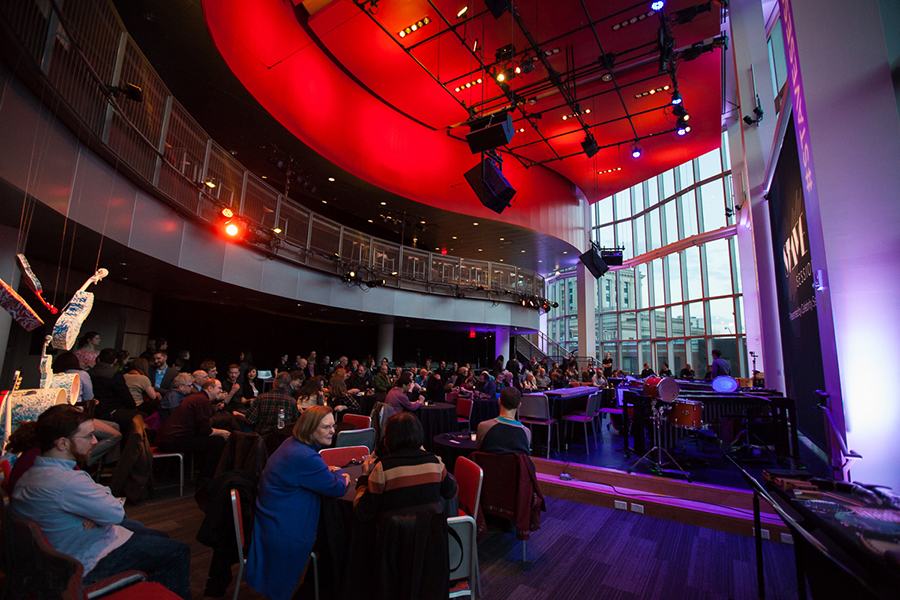
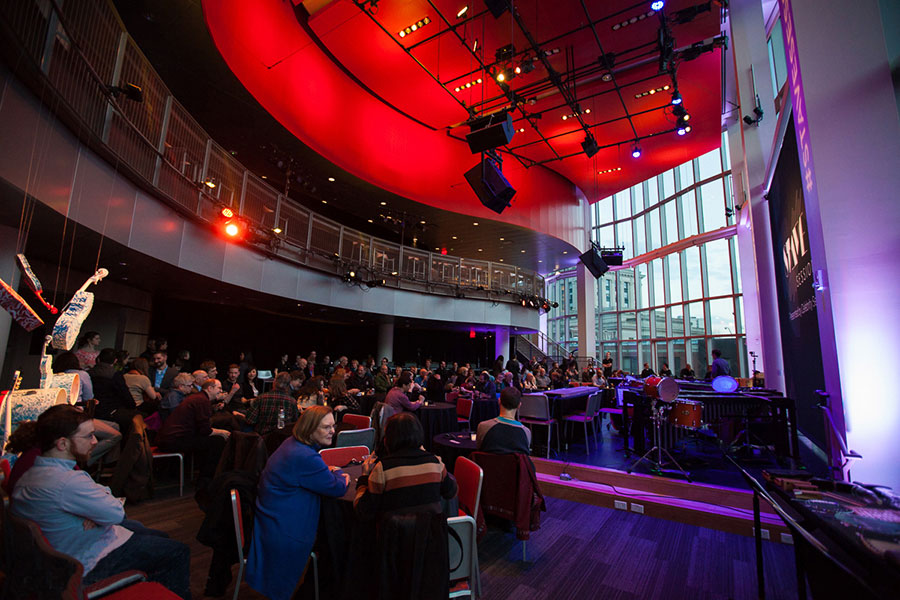
optimizes stave sessions images

diff --git a/portfolio/stave_sessions.html b/portfolio/stave_sessions.html
@@ -91,7 +91,7 @@
 
                 <div class="portfolio-lightbox top_60 row">
                    <figure class="col-md-6 bottom_30">
-                       <img src="../images/portfolio/staveSessions/stave-sessions-logos.png" alt="Stave Sessions Logo Lockup">
+                       <img src="../images/portfolio/staveSessions/stave-sessions-logos.jpg" alt="Stave Sessions Logo Lockup">
                    </figure>
                    <figure class="col-md-6 bottom_30">
                         <img src="../images/portfolio/staveSessions/stave-sessions-poster.jpg" alt="Stave Sessions Interactive Poster">
@@ -103,13 +103,11 @@
                         <img src="../images/portfolio/staveSessions/stave-sessions-painted-cellos.jpg" alt="Stave Sessions Interior Design">
                     </figure>
                     <figure class="col-md-6 bottom_30 lightbox">
-                        <img src="../images/portfolio/staveSessions/stave-sessions-coasters.png" alt="Stave Sessions Event Coasters">
+                        <img src="../images/portfolio/staveSessions/stave-sessions-coasters.jpg" alt="Stave Sessions Event Coasters">
                     </figure>
                     <figure class="col-md-6 bottom_30 lightbox">
                         <img src="../images/portfolio/staveSessions/stave-sessions-ticket.jpg" alt="Stave Sessions Event Ticket">
                     </figure>
-
-
                 </div>
 
                 <div class="col-md-12 portfolio-nav text-center top_90">

diff --git a/index.html b/index.html
@@ -169,7 +169,7 @@
                         <div class="cbp-item branding creative digital">
                             <a href="portfolio/stave_sessions.html">
                                 <figure class="fig">
-                                    <img src="images/portfolio/staveSessions/stave-sessions-logo-ko.png" alt="Stave Sessions Logo">
+                                    <img src="images/portfolio/staveSessions/stave-sessions-logo-ko.jpg" alt="Stave Sessions Logo">
                                     <figcaption>
                                         <h3>Stave Sessions</h3>
                                         <p>Celebrity Series </p>
